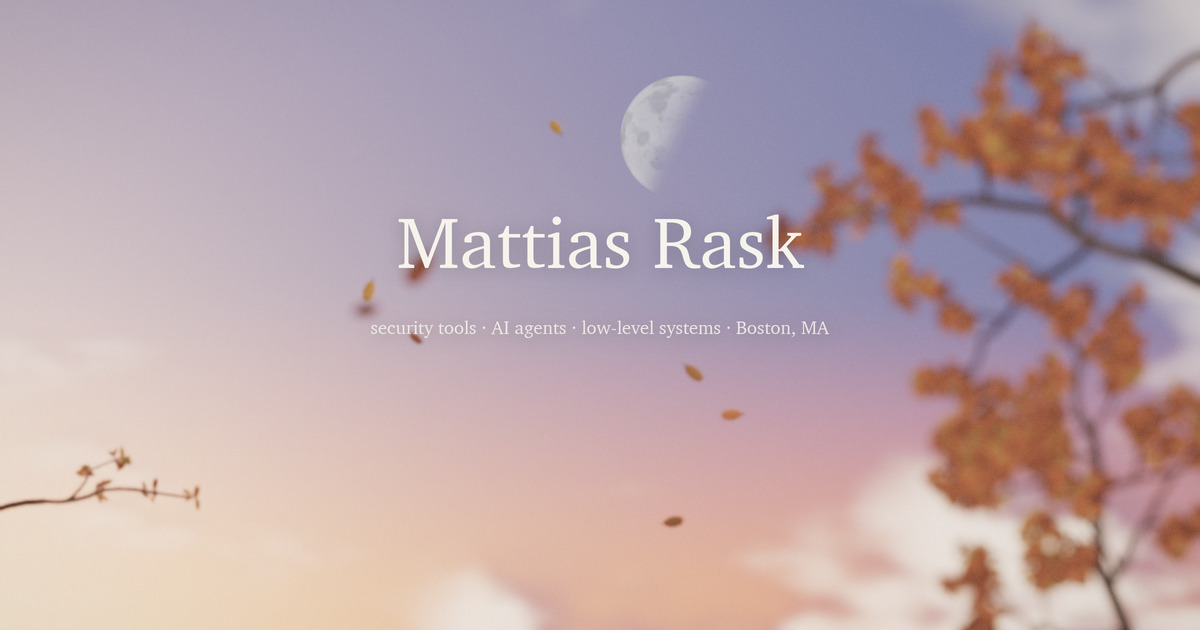
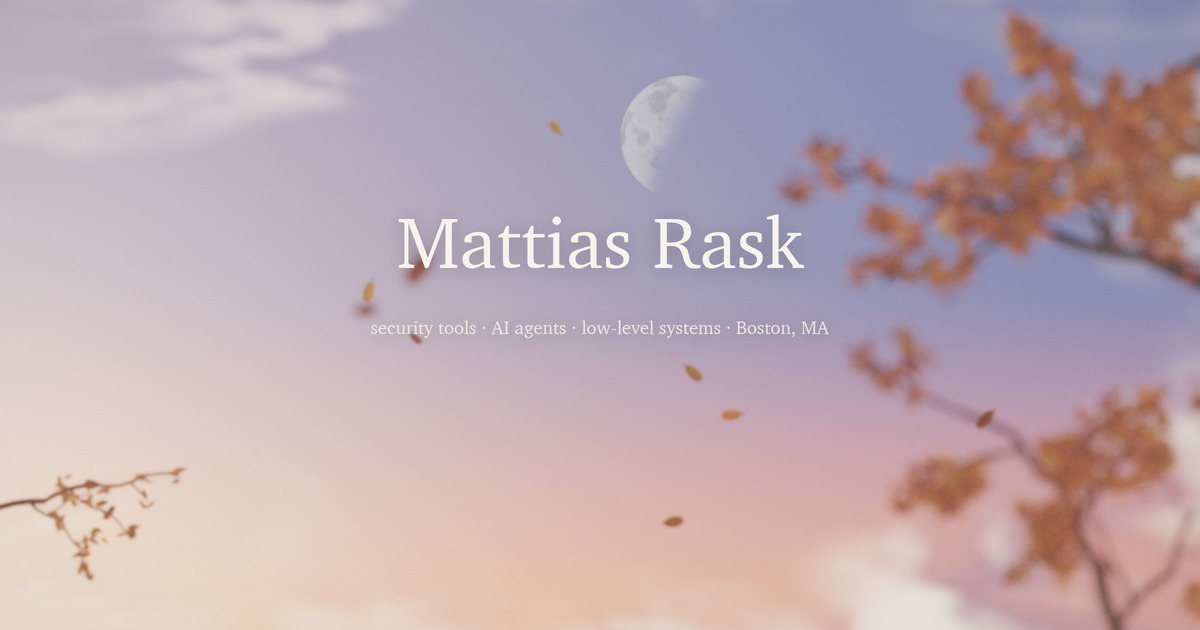
lifelike pass

diff --git a/sky.js b/sky.js
@@ -64,14 +64,14 @@ var PAL = {
     glow: [0.8, 0.76, 0.64], clit: [1.04, 1.03, 1.0], cshd: scene('#8fa1ba'),
     blit: scene('#6e6155'), bdrk: scene('#1c1815'),
     leaf: [['#8e4a2c', '#3e1f12'], ['#c07838', '#5c3315'], ['#c39c44', '#6a541c']],
-    cover: 0.5, expo: 1.0, mgain: 1.0
+    cover: 0.55, expo: 1.0, mgain: 1.0
   },
   dusk: {
-    zen: scene('#6876ae'), hor: scene('#dcab88'), dmid: scene('#e69f68'), dfar: scene('#b596ac'),
-    glow: [1.0, 0.6, 0.32], clit: [1.06, 0.88, 0.72], cshd: scene('#93819f'),
+    zen: scene('#7180b5'), hor: scene('#d8b09a'), dmid: scene('#e5a778'), dfar: scene('#b79cb4'),
+    glow: [1.0, 0.62, 0.36], clit: [1.08, 0.91, 0.78], cshd: scene('#9c8db0'),
     blit: scene('#735646'), bdrk: scene('#1a1310'),
-    leaf: [['#a8522c', '#3f1a0e'], ['#d0803a', '#582b10'], ['#d1a548', '#634916']],
-    cover: 0.48, expo: 1.0, mgain: 1.0
+    leaf: [['#a8522c', '#4a2214'], ['#d0803a', '#603315'], ['#d1a548', '#6a501c']],
+    cover: 0.56, expo: 1.0, mgain: 1.0
   },
   night: {
     zen: scene('#0a1024'), hor: scene('#1b2439'), dmid: scene('#1e2740'), dfar: scene('#141b30'),
@@ -198,17 +198,17 @@ vec3 skyColor(vec3 dir) {
   float sd = max(dot(dir, SUN), 0.0);
   col += GLOW * pow(sd, 14.0) * (mix(0.22, 0.06, NIGHT) + 0.28 * DUSK);
   col += GLOW * pow(sd, 4.0) * 0.14 * DUSK;
-  col += GLOW * pow(sd, 40.0) * 0.9 * DUSK;
+  col += GLOW * pow(sd, 40.0) * 0.6 * DUSK;
   col *= 1.0 + 0.011 * sin(dir.x * 4.1 + dir.y * 6.3) * sin(dir.y * 3.7 - dir.x * 2.3)
              + 0.006 * sin(dir.x * 11.0) * sin(dir.y * 9.0);
   return col;
 }
 
 float cloudField(vec2 p, vec2 drift, float seed) {
-  float base = fbm5(p * 2.4 + drift + seed);
-  float fine = 0.14 * (fbm5(p * 4.2 - drift * 1.4 + 4.0 + seed) - 0.5);
-  float billow = 1.0 - abs(2.0 * fbm3(p * 8.5 + drift * 0.6 + 9.0 + seed) - 1.0);
-  float grain = 0.05 * (fbm3(p * 20.0 + drift * 0.3 + 23.0 + seed) - 0.5);
+  float base = fbm5(p * 2.1 + drift + seed);
+  float fine = 0.14 * (fbm5(p * 3.8 - drift * 1.4 + 4.0 + seed) - 0.5);
+  float billow = 1.0 - abs(2.0 * fbm3(p * 7.5 + drift * 0.6 + 9.0 + seed) - 1.0);
+  float grain = 0.05 * (fbm3(p * 18.0 + drift * 0.3 + 23.0 + seed) - 0.5);
   return 0.48 + (base - 0.48) * 1.35 + fine + 0.12 * (billow - 0.5) + grain;
 }
 
@@ -225,7 +225,7 @@ vec4 deck(vec3 dir, vec2 p0, vec2 drift, vec2 sc, float seed, float th0, float s
   float weather = fbm3(p * 1.3 + seed * 3.1 + drift * 0.5);
   float th = th0 + 0.15 * (0.5 - weather) + shelter;
   float f = cloudField(p, drift, seed);
-  float dens = smoothstep(th, th + 0.30, f);
+  float dens = smoothstep(th, th + 0.34, f);
   if (dens <= 0.0) return vec4(0.0);
   float thick = smoothstep(th + 0.14, th + 0.55, f);
   float fl = cloudField(p + LD * 0.045, drift, seed);
@@ -255,9 +255,9 @@ void main() {
     float shelter = SHEL * (1.0 - smoothstep(-0.04, 0.42, boxDist(uv * s + warp, BOX, s)));
     vec4 far = deck(dir, p0, drift * 0.6, vec2(2.2, 4.8), 5.0, th0 + 0.08, shelter);
     vec4 near = deck(dir, p0, drift, vec2(1.0, 1.0), 0.0, th0, shelter);
-    col = mix(col, far.rgb, far.a * 0.45);
+    col = mix(col, far.rgb, far.a * 0.5);
     col = mix(col, near.rgb, near.a);
-    cov = min(near.a + far.a * 0.45 * (1.0 - near.a), 1.0);
+    cov = min(near.a + far.a * 0.5 * (1.0 - near.a), 1.0);
   }
   o0 = vec4(col * SCALE, 1.0);
   o1 = vec4(cov, 0.0, 0.0, 1.0);
@@ -304,6 +304,7 @@ vec4 layerCol(vec4 t, vec3 bg, float wrap) {
   float leaf = clamp(t.g / max(t.a, 1e-4), 0.0, 1.0);
   float hue = clamp(t.b / max(t.a, 1e-4), 0.0, 1.0);
   vec3 c = mix(mix(BDRK, BLIT, lit), leafCol(hue, lit), leaf);
+  c = mix(c, bg, 0.06);
   c += bg * wrap * (1.0 - cov);
   return vec4(c, cov);
 }
@@ -585,7 +586,7 @@ function oak(ctx, x, y, ang, len, wid, depth, rnd, lx, ly, leafSize, out, lf) {
   var next = ang + bend * 0.7 + (rnd() - 0.5) * 0.8;
   oak(ctx, ex, ey, next, len * (0.72 + rnd() * 0.16), wid * 0.78, depth - 1, rnd, lx, ly, leafSize, out, lf);
   if (depth <= 3) {
-    out.push({ x: ex, y: ey, sprite: makeCluster(leafSize * (0.8 + 0.4 * rnd()), Math.max(3, Math.round((9 + rnd() * 10) * lf)), rnd, lx, ly), ph: rnd() * 6.2832 });
+    out.push({ x: ex, y: ey, sprite: makeCluster(leafSize * (0.8 + 0.4 * rnd()), Math.max(3, Math.round((7 + rnd() * 7) * lf)), rnd, lx, ly), ph: rnd() * 6.2832 });
   }
 }
 
